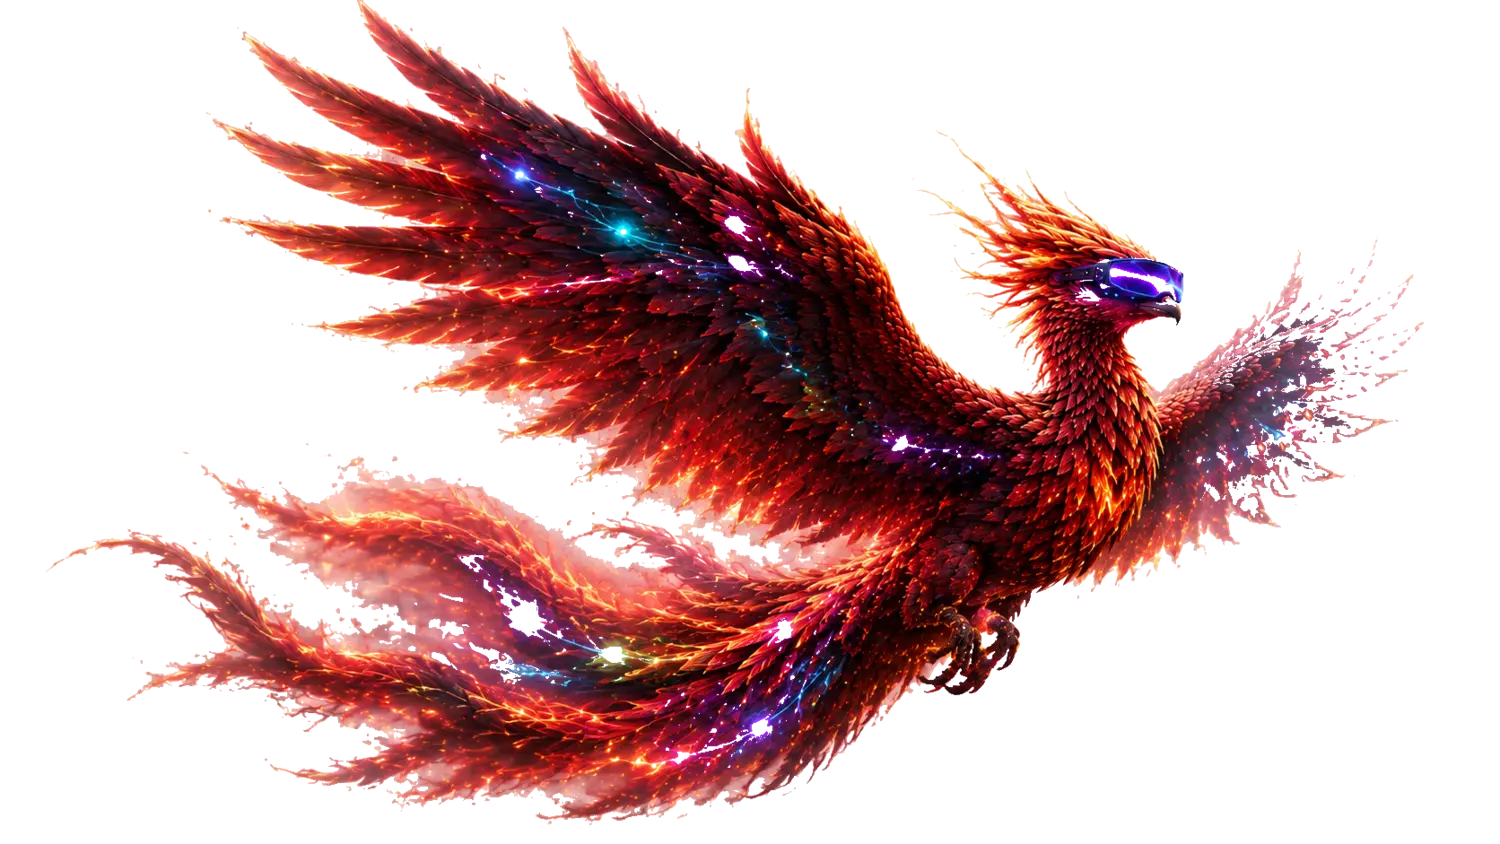
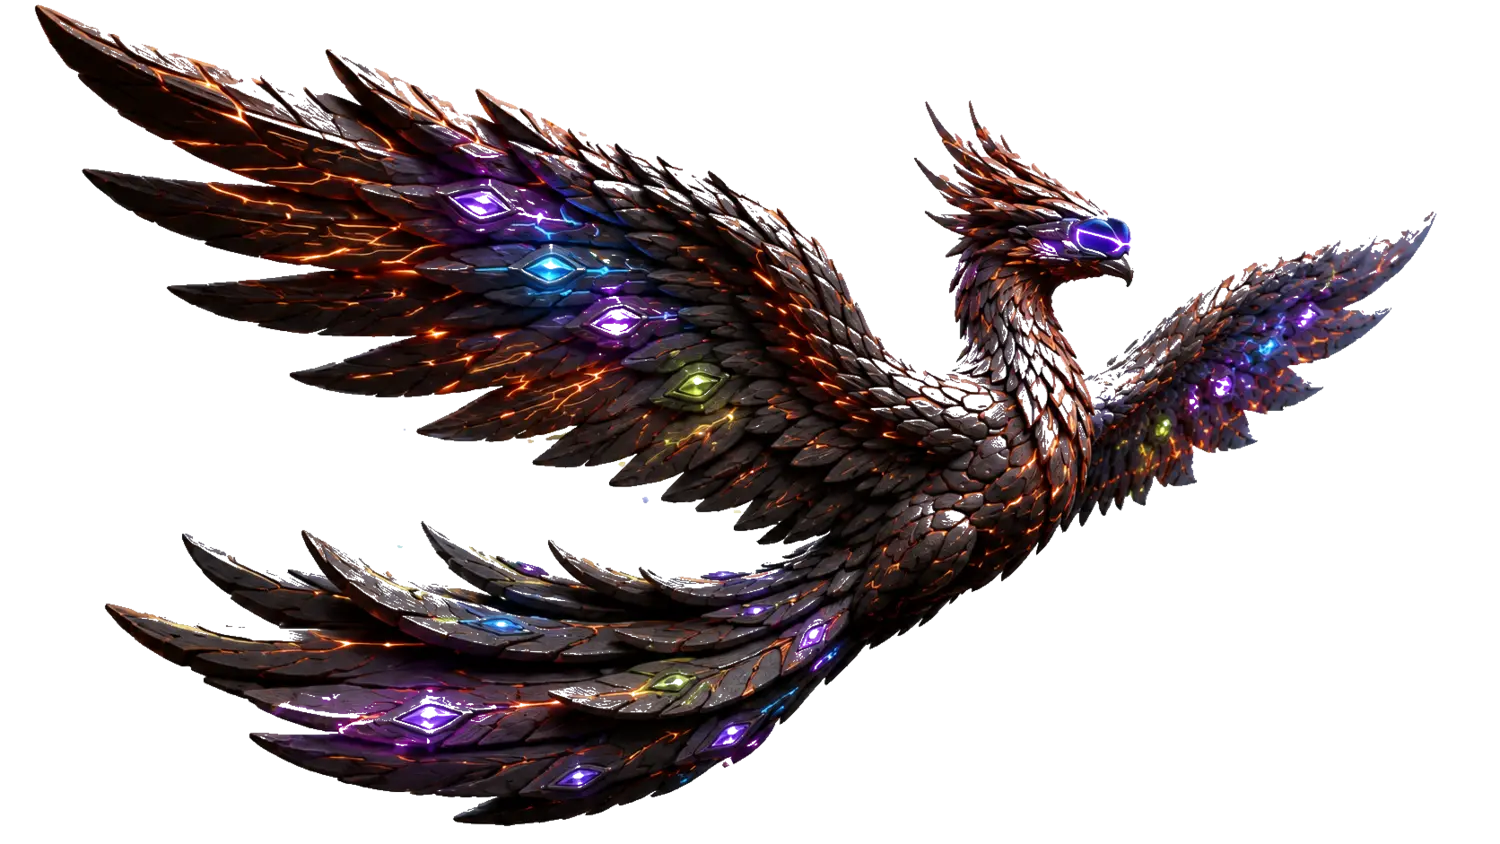
Use the obsidian signal phoenix in the hero

diff --git a/src/index.css b/src/index.css
@@ -100,7 +100,7 @@ section{content-visibility:auto;contain-intrinsic-size:800px}section.hero{conten
  height:72vh;
  left:52%;
  top:13%;
- opacity:.9;
+ opacity:.96;
  isolation:isolate;
  filter:none;
  -webkit-mask-image:linear-gradient(to bottom,transparent 0,#000 8%,#000 82%,transparent 100%);
@@ -109,7 +109,7 @@ section{content-visibility:auto;contain-intrinsic-size:800px}section.hero{conten
 .hero-phoenix.phoenix-vr img{
  transform:none!important;
  object-position:center;
- filter:brightness(.74) saturate(1.02) contrast(1.13) drop-shadow(0 24px 48px #000c) drop-shadow(0 0 34px #ff62382e)!important;
+ filter:brightness(.9) saturate(1.08) contrast(1.1) drop-shadow(0 28px 54px #000d) drop-shadow(0 0 30px #825cff2b)!important;
 }
 .hero-phoenix:after{
  content:"";
